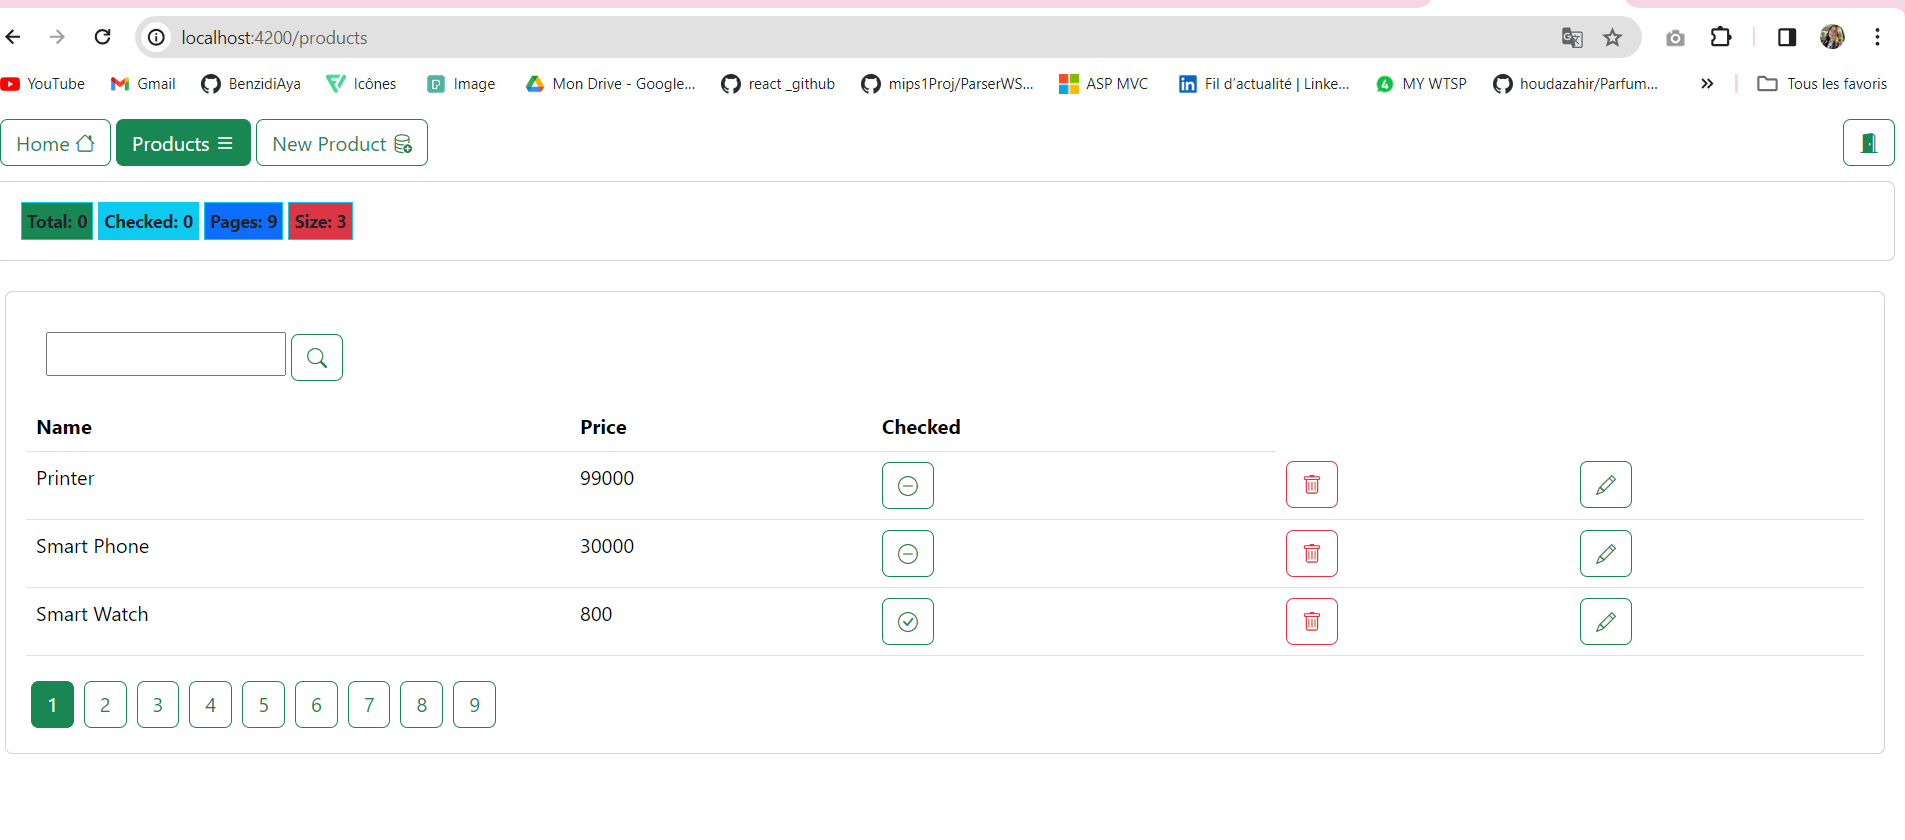
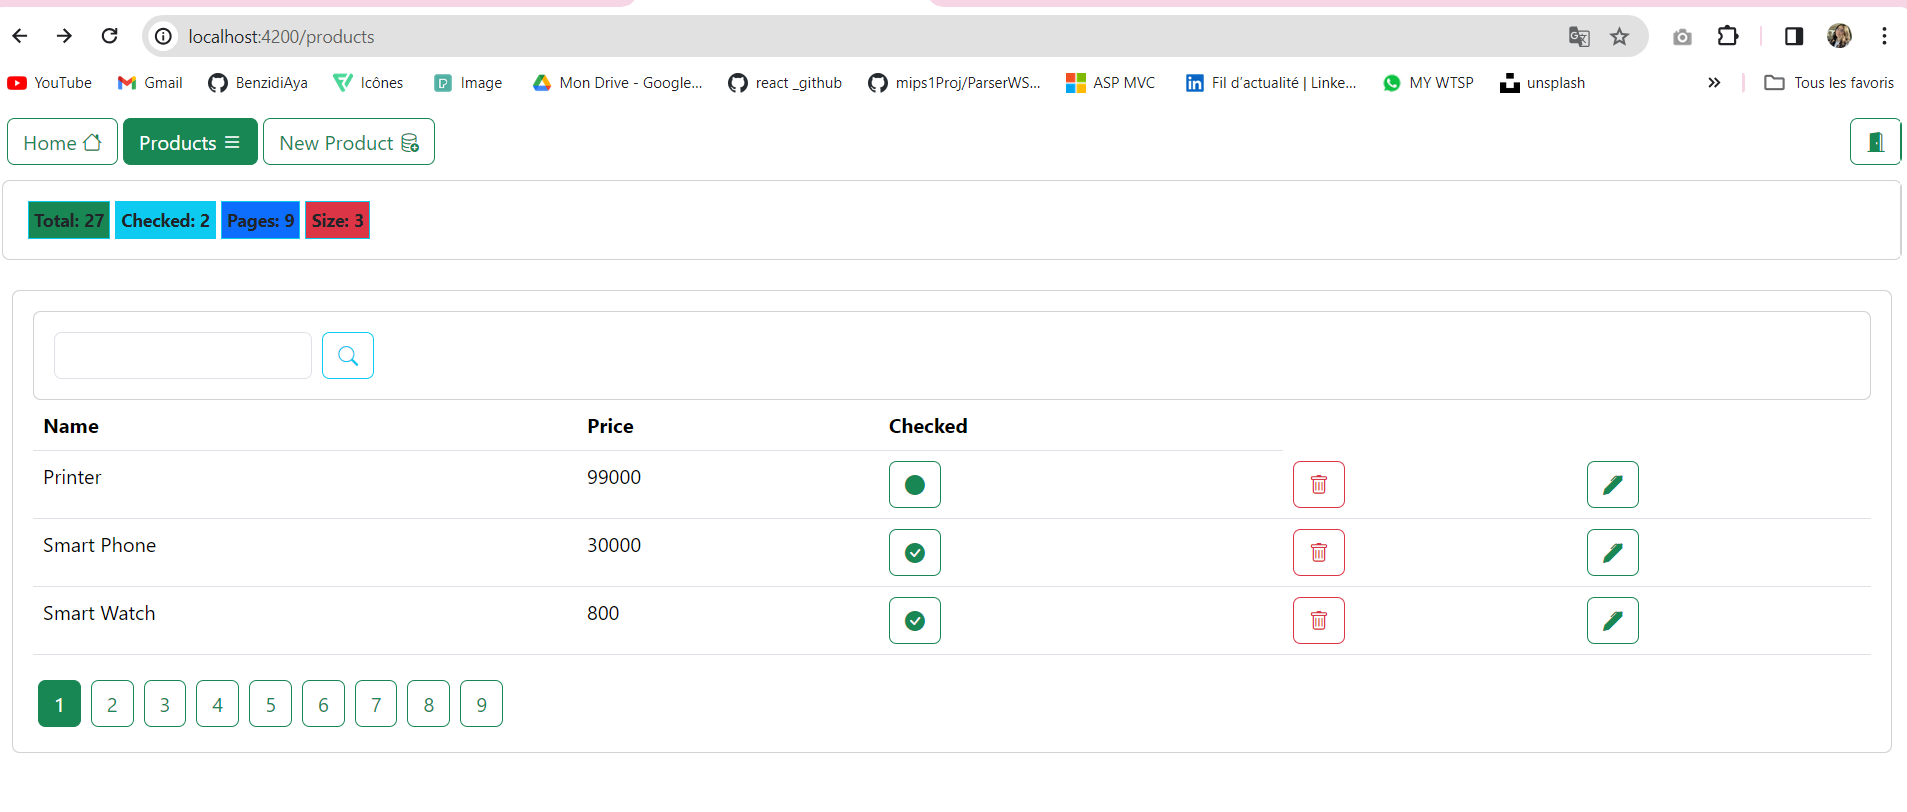
V4

diff --git a/src/app/products/products.component.ts b/src/app/products/products.component.ts
@@ -4,6 +4,7 @@ import {ProductService} from "../services/product.service";
 import {Observable} from "rxjs";
 import {Product} from "../model/product.model";
 import {Router} from "@angular/router";
+import {AppStateService} from "../services/app-state.service";
 
 @Component({
   selector: 'app-products',
@@ -11,67 +12,88 @@ import {Router} from "@angular/router";
   styleUrls: ['./products.component.css']
 })
 export class ProductsComponent implements OnInit{
-  public products : Array<Product>=[];
-  public keyword : string = "";
-  totalPages:number=0;
-  pageSize=3;
-  currentPage : number=1;
-  constructor(private productService : ProductService,
-              private router : Router) {
+  query :string="";
+  constructor(public productsRepositoryService:ProductService,
+              public appState: AppStateService,
+              private router:Router) {
   }
     ngOnInit() {
-        this.getProducts();
+        this.getProducts({});
     }
 
-    getProducts () {
-     this.productService.getProducts(this.keyword,this.currentPage, this.pageSize)
-        .subscribe({
-          next : (respo) => {
-            this.products=respo.body as Product[];
-            let totalProducts:number=parseInt(respo.headers.get('x-total-count')!);
-            this.totalPages=Math.floor(totalProducts / this.pageSize);
-            if(totalProducts % this.pageSize !=0){
-              this.totalPages=this.totalPages+1;
-            }
-          },
-          error : err => {
-            console.log(err);
-          }
-        })
+  getProducts({
+                keyword=this.appState.productsState.keyword,
+                page=this.appState.productsState.currentPage,
+                size=this.appState.productsState.pageSize}){
+    this.appState.productsState.status="LOADING";
+    setTimeout(()=>{
+      this.productsRepositoryService.getProducts(keyword,page, size).subscribe({
+        next : (resp)=>{
+          let products=resp.body;
+          let totalCount:number=parseInt(resp.headers.get("x-total-count")!);
+          let totalPages=Math.floor(totalCount/this.appState.productsState.pageSize);
+          if(totalCount % this.appState.productsState.pageSize!==0) ++this.appState.productsState.totalPages;
+          this.appState.setProductState({
+            products, totalPages,currentPage:page,
+            totalCount, keyword, status:"LOADED", errorMessage:""
+          })
 
 
-
-      //this.products$=this.productService.getProducts();
-    }
-
-
-  handleCheckProduct(product: Product) {
-    this.productService.checkProduct(product)
-        .subscribe({
-      next : data => {
-        product.checked =! product.checked;
-      }
-    })
+        },
+        error : (err)=>{
+          this.appState.setProductState({status:"ERROR", errorMessage:err.statusText});
+        }
+      });
+    },1000);
+  }
+  goToPage(page: number) {
+    this.getProducts({page:page});
   }
 
-  handleDelete(product: Product) {
-    if (confirm("Etes-vous sûre?"))
-    this.productService.deleteProduct(product)
+
+  handleCheckProduct(product: any) {
+    this.appState.productsState.status="LOADING";
+    this.productsRepositoryService.checkProduct(product)
       .subscribe({
-        next : data => {
-          //this.getProducts()
-          this.products=this.products.filter(p=>p.id!=product.id);
+        next : (data)=>{
+          let prods = this.appState.productsState.products.map((p:any)=>p.id===product.id?data:p);
+          this.appState.setProductState({products:prods,status:"LOADED", errorMessage:""});
+        },
+        error : (err)=>{
+          this.appState.setProductState({status:"ERROR", errorMessage:err.statusText});
+        }
+      })
+
+  }
+
+  handleDeleteProduct(product: any) {
+    this.appState.productsState.status="LOADING";
+    this.productsRepositoryService.deleteProduct(product)
+      .subscribe({
+        next :(data)=>{
+          let products = this.appState.productsState.products.filter((p:any)=>p.id!==product.id);
+          if(products.length==0 ){
+             this.appState.productsState.currentPage;
+            if(this.appState.productsState.currentPage==0){
+              this.appState.productsState.currentPage=1;
+            }
+            this.getProducts({})
+          } else{
+            let totalCount=this.appState.productsState.totalCount-1;
+            this.appState.setProductState({products, totalCount,status:"LOADED", errorMessage:""});
+          }
+        },
+        error : (err)=>{
+          this.appState.setProductState({status:"ERROR", errorMessage:err.statusText});
         }
       })
   }
 
-
-  handleGotoPage(page:number) {
-    this.currentPage=page;
-    this.getProducts()
+  handleSearch() {
+    this.getProducts({keyword:this.query, page :1})
   }
 
-  handleEdit(product: Product) {
+  handleEdit(product: any) {
     this.router.navigateByUrl(`/editProduct/${product.id}`)
   }
 }

diff --git a/src/app/products/products.component.html b/src/app/products/products.component.html
@@ -1,12 +1,19 @@
 <div class="p-3">
   <div class="card">
     <div class="card-body">
-      <div class="card-body">
-        {{keyword}}
-        <input class="p-1" type="text" [(ngModel)]="keyword">
-        <button (click)="getProducts()" class="btn btn-outline-success ms-1">
-          <i class="bi bi-search"></i>
-        </button>
+      <div class="card">
+        <div class="card-body">
+          <div class="row g-2">
+            <div class="col-auto">
+              <input class="form-control" type="text" [(ngModel)]="query"/>
+            </div>
+            <div class="col-auto">
+              <button (click)="handleSearch()" class="btn btn-outline-info">
+                <i class="bi bi-search"></i>
+              </button>
+            </div>
+          </div>
+        </div>
       </div>
       <table class="table">
         <thead>
@@ -14,34 +21,41 @@
           <th>Name</th><th>Price</th><th>Checked</th>
         </tr>
         </thead>
-        <tbody>
-        <tr *ngFor="let product of products">
+        <tbody *ngIf="appState.productsState">
+        <tr *ngFor="let product of appState.productsState.products">
           <td>{{product.name}}</td>
           <td>{{product.price}}</td>
           <td>
             <button (click)="handleCheckProduct(product)" class="btn btn-outline-success">
-              <i [class]="product.checked ? 'bi-check-circle' : 'bi-dash-circle'"></i>
+              <i class=""
+                 [ngClass]="product.checked?'bi bi-check-circle-fill':'bi bi-circle-fill'"
+              ></i>
             </button>
           </td>
+<!--          <td *ngIf="!appState.authState.roles.includes('ADMIN')">
+            <i class=""
+               [ngClass]="product.checked?'bi bi-check-circle-fill':'bi bi-circle-fill'"
+            ></i>
+          </td>-->
           <td>
-            <button (click)="handleDelete(product)"  class="btn btn-outline-danger">
+            <button (click)="handleDeleteProduct(product)" class="btn btn-outline-danger">
               <i class="bi bi-trash"></i>
             </button>
           </td>
-          <td>
-            <button (click)="handleEdit(product)"  class="btn btn-outline-success">
-              <i class="bi bi-pencil"></i>
+          <td >
+            <button (click)="handleEdit(product)" class="btn btn-outline-success">
+              <i class="bi bi-pen-fill"></i>
             </button>
           </td>
         </tr>
         </tbody>
       </table>
       <ul class="nav nav-pills">
-        <li *ngFor="let page of [].constructor(this.totalPages); let i=index">
-          <button (click)="handleGotoPage(i+1)"
-                  [ngClass]="currentPage==(i+1)?'btn btn-success m-1'
-                  :'btn btn-outline-success m-1'">
-            {{(i+1)}}
+        <li *ngFor="let page of [].constructor(appState.productsState.totalPages); let index=index">
+          <button (click)="goToPage(index+1)"
+                  [ngClass]="appState.productsState.currentPage===(index+1)?'btn btn-success m-1':'btn btn-outline-success m-1'"
+                  class="">
+            {{index+1}}
           </button>
         </li>
       </ul>

diff --git a/src/app/services/app-state.service.ts b/src/app/services/app-state.service.ts
@@ -9,7 +9,7 @@ export class AppStateService {
     keyword:"",
     currentPage : 1,
     pageSize:3,
-    totalPages:9,
+    totalPages :9,
     status :"",
     totalCount : 0,
     errorMessage :""
